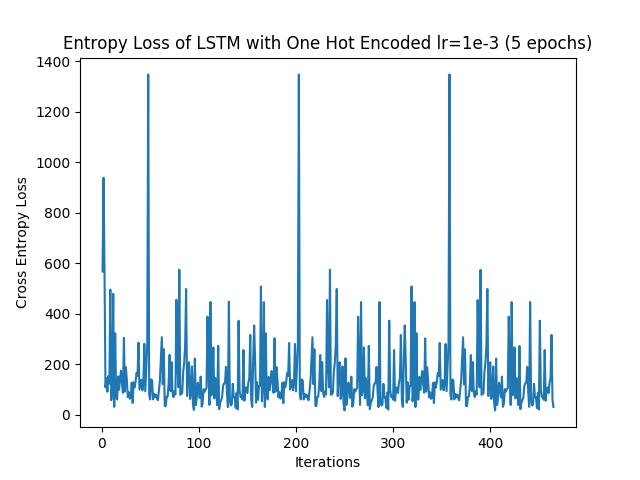
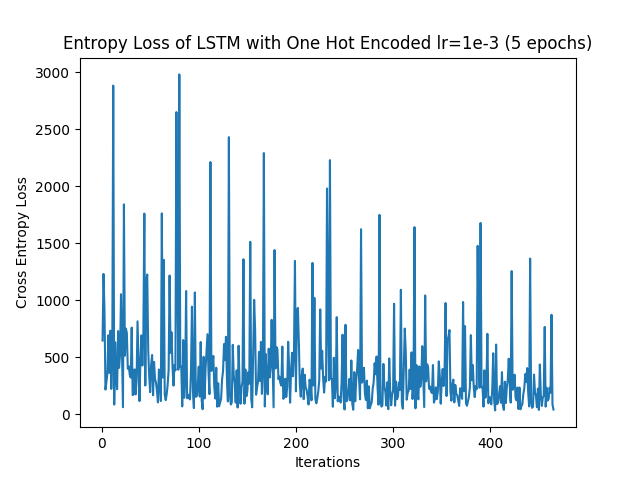
repeated experiment

diff --git a/seq-prediction.py b/seq-prediction.py
@@ -65,7 +65,7 @@ def encode_output(y):
 
 model = Model()
 loss_function = nn.CrossEntropyLoss()
-optimizer = optim.Adam(model.parameters(), lr=1e-1)
+optimizer = optim.Adam(model.parameters(), lr=1e-3)
 
 # initialize the hidden state. Keep hidden layer resets out of the training phase (maybe except when testing)
 hidden = (autograd.Variable(torch.randn(1, 1, 2)),
